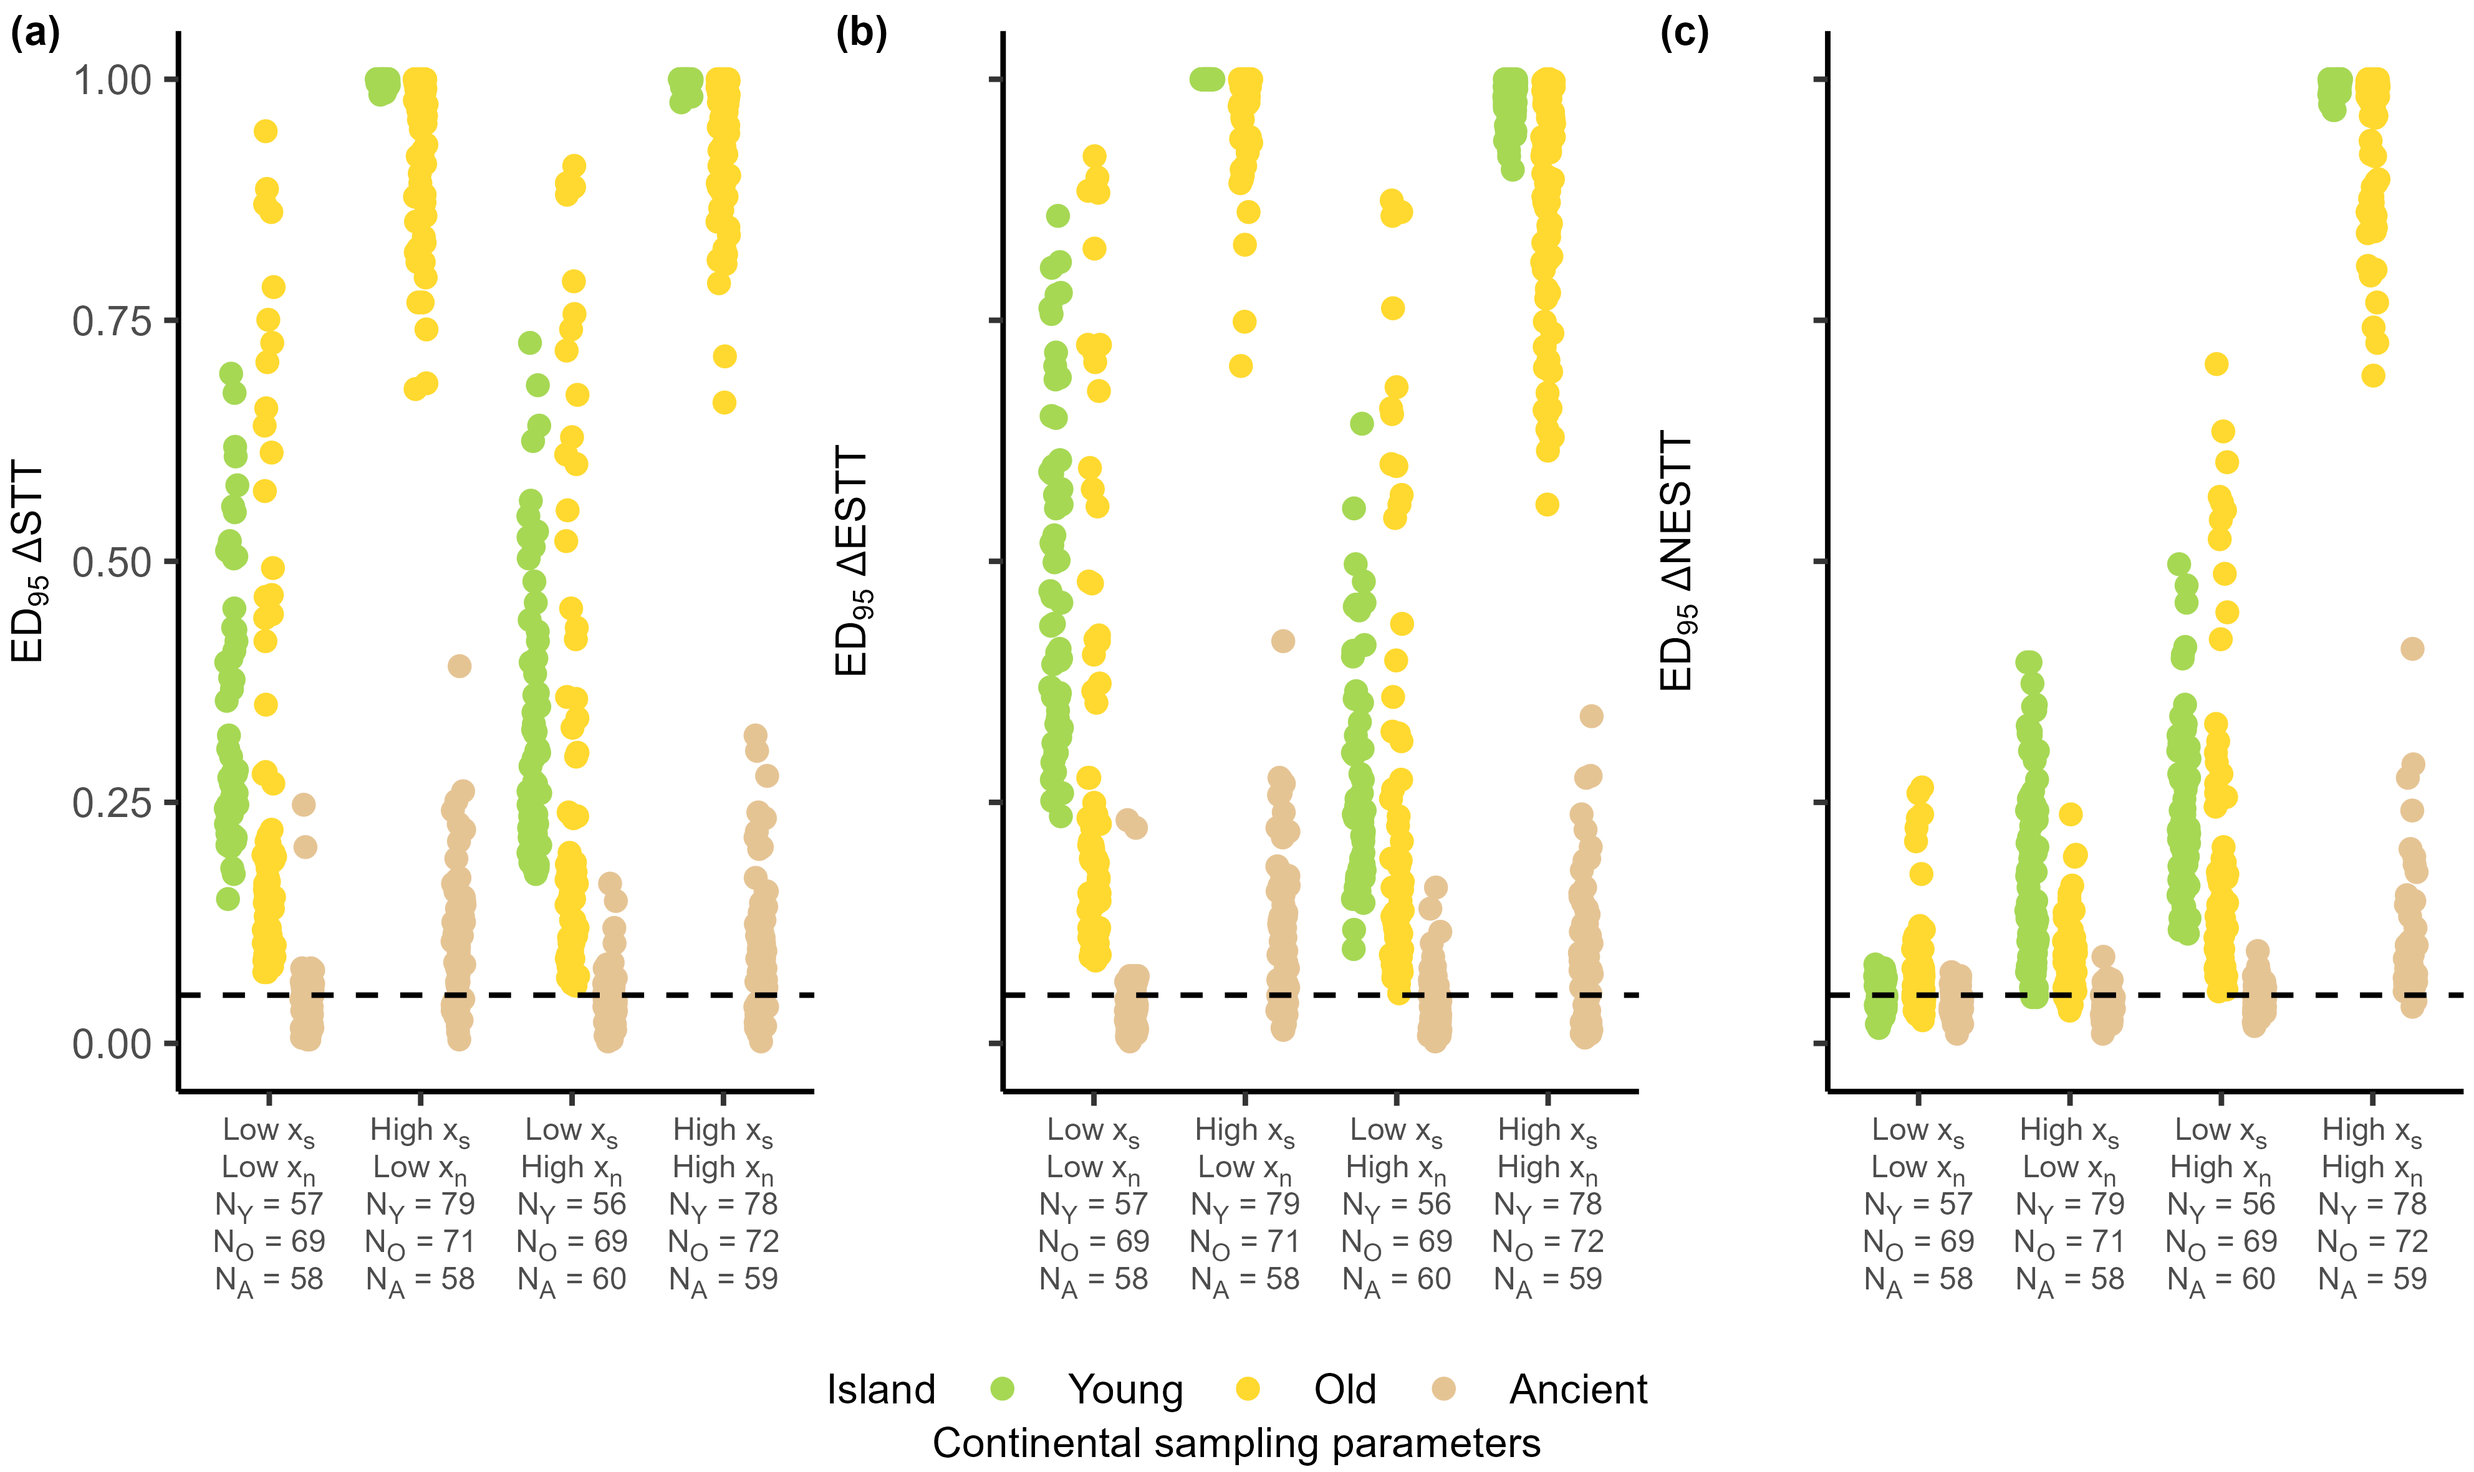
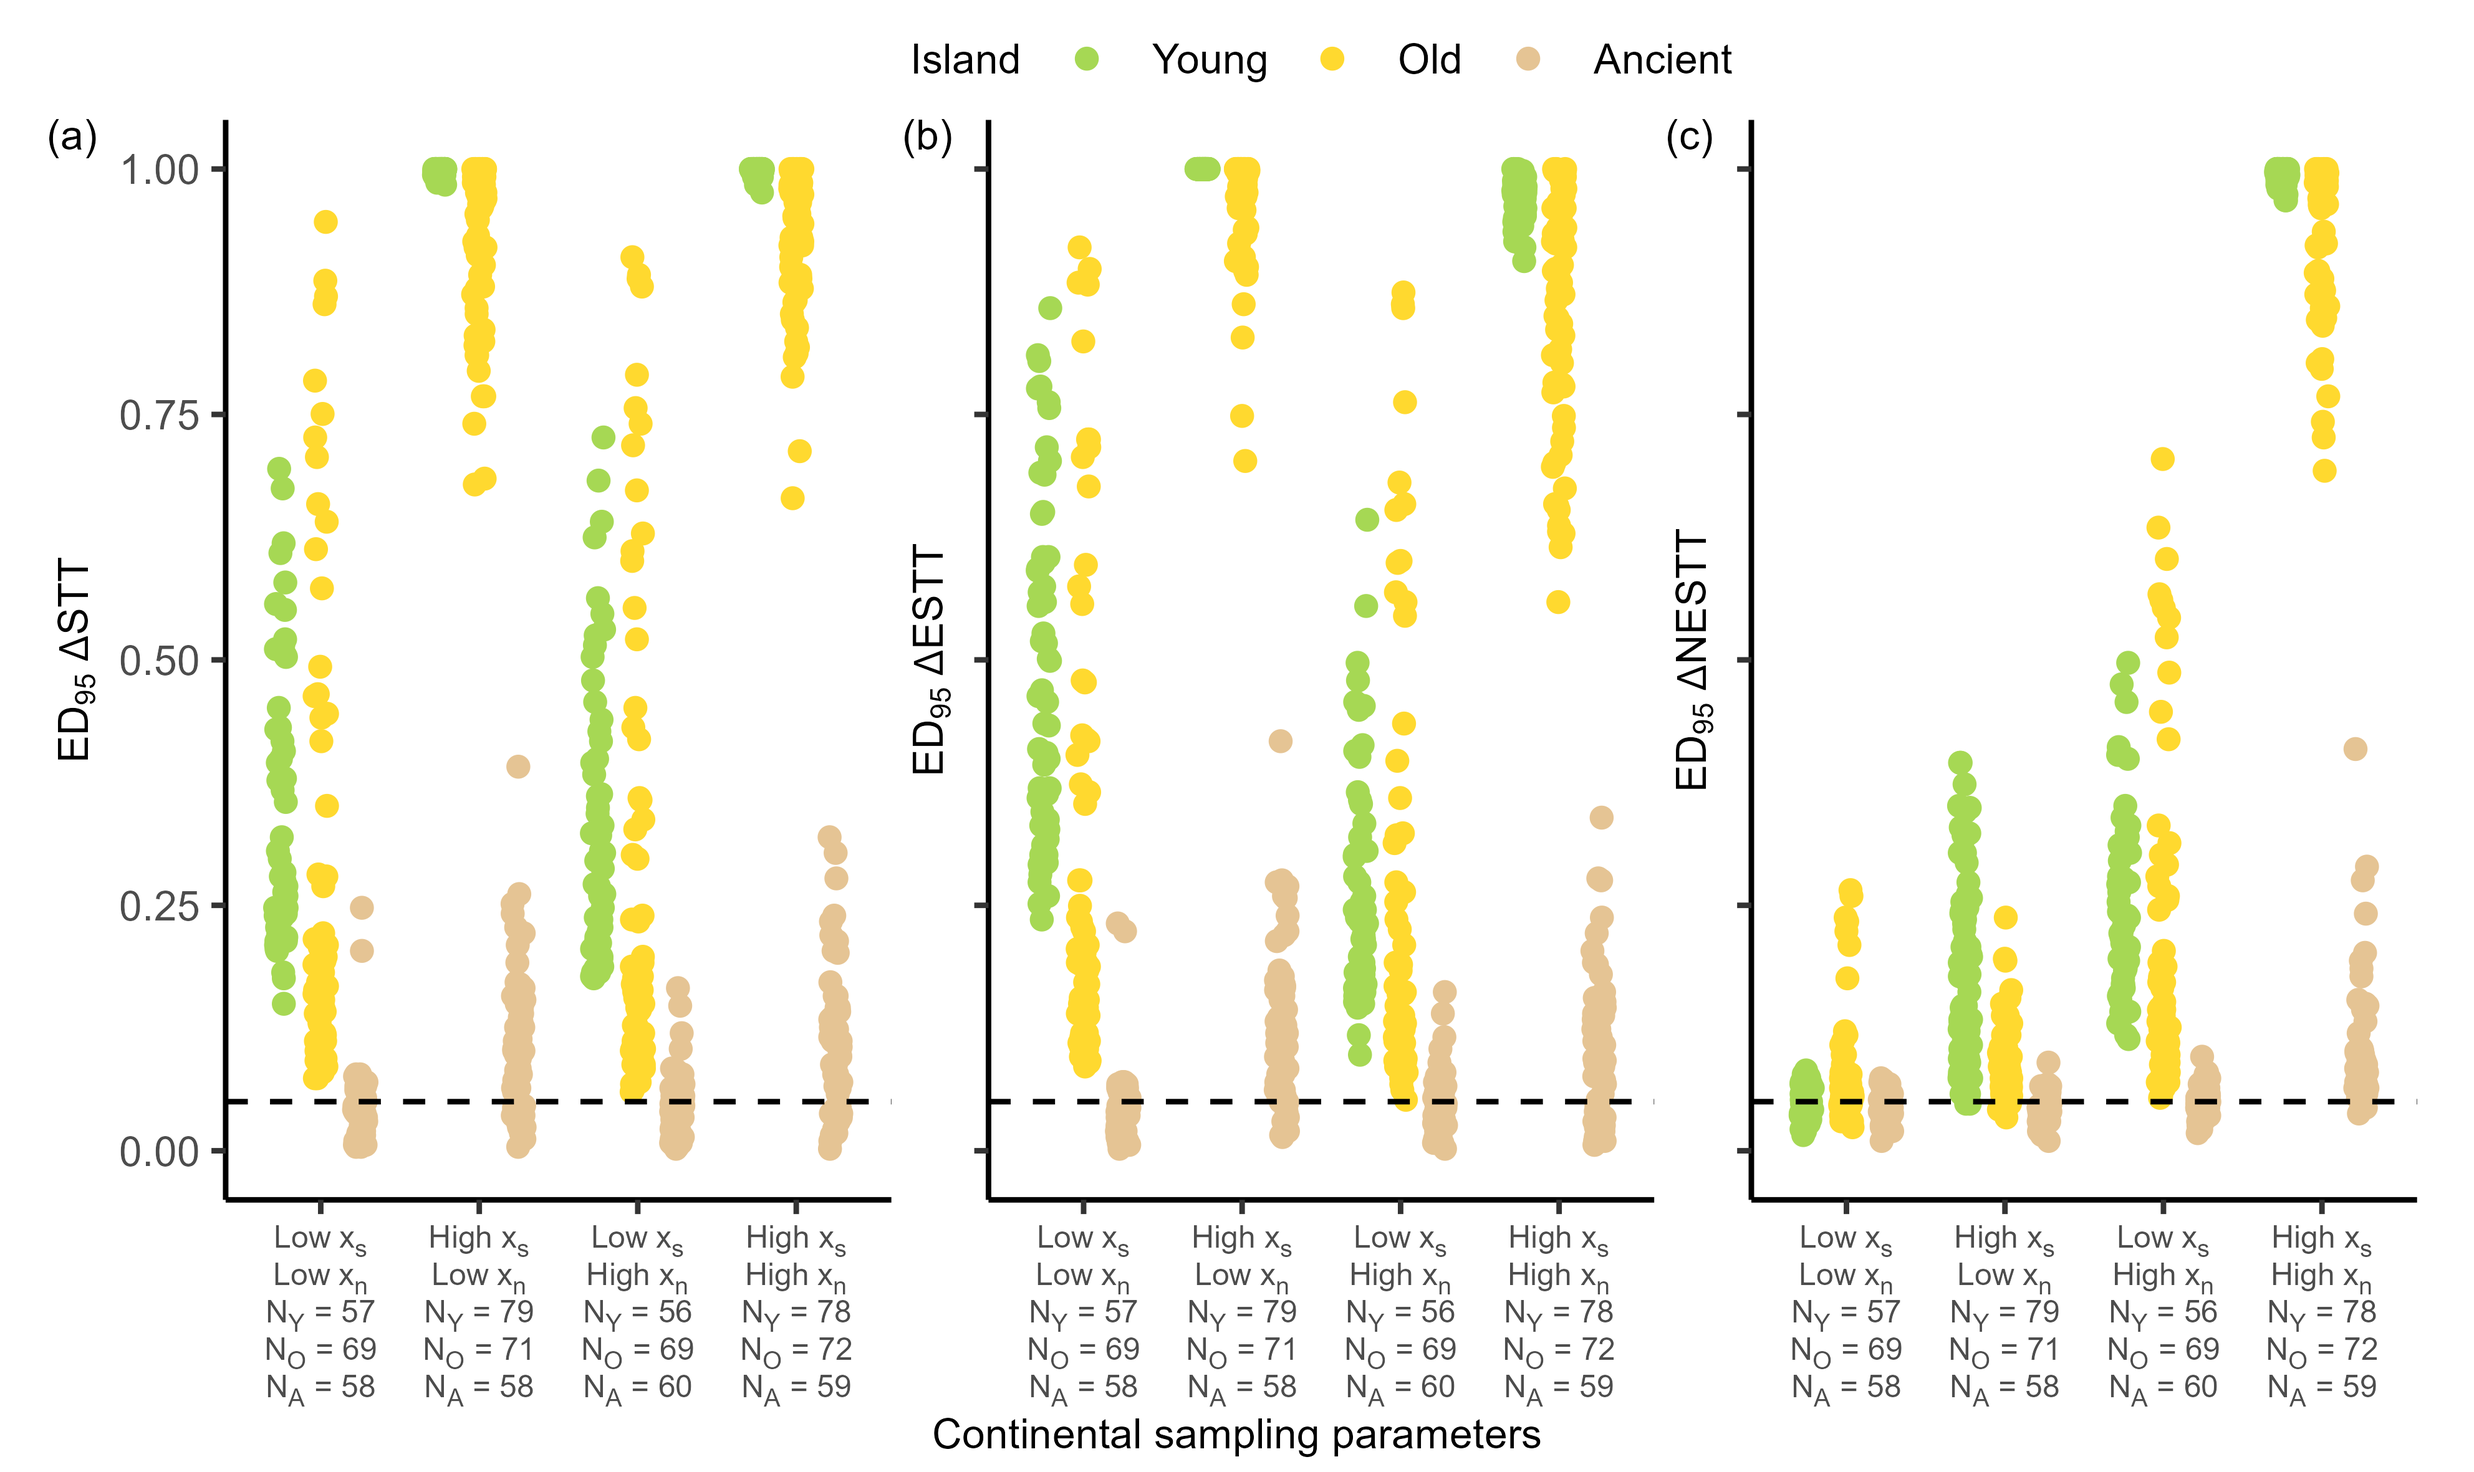
Update figures

diff --git a/supmat.tex b/supmat.tex
@@ -143,28 +143,28 @@ Therefore, the relationship between surface area of the cone and the base of the
 
 \begin{figure}
     \centering
-    \includegraphics{JBI-21-0508_FigS12.png}
+    \includegraphics[width=\textwidth]{JBI-21-0508_FigS12.png}
     \caption{Strip charts showing the distributions of the $ED_{95}$ statistic for the number of species at the present (N Spec) for each combination of island gradients for oceanic ontogeny sea-level. One point represents the $ED_{95}$ for a single parameter set with the specified island gradient on the \textit{x}-axis. All plots have a dashed line at 0.05 which is the null expectation of the $ED_{95}$. $ED_{95}$ statistic for number of species at the present for oceanic ontogeny sea-level. Sample size for Maui Nui (blue) on each strip is given in the \textit{x}-axis label by N\textsubscript{M}. Sample size for Kaua'i (pink) on each strip is given in the \textit{x}-axis label by N\textsubscript{K}. See Fig. \ref{tab:oceanic_ontogeny_sea_level_young}-\ref{tab:oceanic_ontogeny_sea_level_old} for parameter combinations.}
     \label{fig:Island_gradient_ontogeny_sea_level_num_spec}
 \end{figure}
 
 \begin{figure}
     \centering
-    \includegraphics{JBI-21-0508_FigS13.png}
+    \includegraphics[width=\textwidth]{JBI-21-0508_FigS13.png}
     \caption{Strip charts showing the distributions of the $ED_{95}$ statistic for each combination of continental sampling parameters ($x_s$ and $x_n$ controlling the sampling probability of a species being initially present on the island and the sampling probability of species present initially on the island being non-endemic). One point represents the $ED_{95}$ for a single parameter set with the specified sampling parameters on the \textit{x}-axis. All plots have a dashed line at 0.05 which is the null expectation of the $ED_{95}$. (a) $\Delta$STT $ED_{95}$ statistic, (b) $\Delta$ESTT $ED_{95}$ statistic, (c) $\Delta$NESTT $ED_{95}$ statistic for continental land-bridge. Sample size for young island (green) on each strip is given in the \textit{x}-axis label by N\textsubscript{Y}. Sample size for old island (yellow) on each strip is given in the \textit{x}-axis label by N\textsubscript{O}. See Table \ref{tab:continental_lb_young}-\ref{tab:continental_lb_old} for parameter combinations.}
     \label{fig:continental_land_bridge_sample_facet}
 \end{figure}
 
 \begin{figure}
     \centering
-    \includegraphics{JBI-21-0508_FigS14.png}
+    \includegraphics[width=\textwidth]{JBI-21-0508_FigS14.png}
     \caption{Strip charts showing the distributions of the $ED_{95}$ statistic for number of species (N Spec) (a) and colonists (N Col) (b) at the present for each combination of continental sampling parameters ($x_s$ and $x_n$ controlling the sampling probability of a species being initially present on the island and the sampling probability of species present initially on the island being non-endemic). One point represents the $ED_{95}$ for a single parameter set with the specified sampling parameters on the \textit{x}-axis. All plots have a dashed line at 0.05 which is the null expectation of the $ED_{95}$. (a) $\Delta$STT $ED_{95}$ statistic, (b) $\Delta$ESTT $ED_{95}$ statistic, (c) $\Delta$NESTT $ED_{95}$ statistic for continental land-bridge. Sample size for young island (green) on each strip is given in the \textit{x}-axis label by N\textsubscript{Y}. Sample size for old island (yellow) on each strip is given in the \textit{x}-axis label by N\textsubscript{O}. See Table \ref{tab:continental_lb_young}-\ref{tab:continental_lb_old} for parameter combinations.}
     \label{fig:continental_land_bridge_sample_spec_col_facet_}
 \end{figure}
 
 \begin{figure}
     \centering
-    \includegraphics{JBI-21-0508_FigS15.png}
+    \includegraphics[width=\textwidth]{JBI-21-0508_FigS15.png}
     \caption{Strip charts showing the distributions of the $ED_{95}$ statistic for number of species and colonists at the present for each combination of continental sampling parameters ($x_s$ and $x_n$ controlling the sampling probability of a species being initially present on the island and the sampling probability of species present initially on the island being non-endemic). One point represents the $ED_{95}$ for a single parameter set with the specified sampling parameters on the \textit{x}-axis. All plots have a dashed line at 0.05 which is the null expectation of the $ED_{95}$. Sample size for young island (green) on each strip is given in the \textit{x}-axis label by N\textsubscript{Y}. Sample size for old island (yellow) on each strip is given in the \textit{x}-axis label by N\textsubscript{O}. Sample size for the ancient island (beige) on each strip is given in the \textit{x}-axis label by N\textsubscript{A}. See Table \ref{tab:continental} for parameter combinations.}
     \label{fig:continental_spec_col_facet_}
 \end{figure}

diff --git a/main.tex b/main.tex
@@ -34,7 +34,7 @@ Groningen, Box 11103, 9700 CC Groningen, The Netherlands
 
 \noindent * These authors contributed equally to this work.
 
-\noindent \textsuperscript{+} These authors jointly contribute to senior authorship.
+\noindent \textsuperscript{+} These authors jointly contributed to senior authorship.
 
 \noindent Corresponding Author: Pedro Santos Neves, Groningen Institute for Evolutionary Life Sciences, Box 11103, 9700 CC Groningen, The Netherlands. Email: p.m.santos.neves@rug.nl.
 
@@ -140,6 +140,7 @@ We quantified the error using the $\Delta$nLTT statistic \citep{janzen_approxima
 \clearpage
 
 \begin{figure}
+    \centering
     \includegraphics{JBI-21-0508_Fig2.png}
     \caption{Schematic representation of the robustness pipeline. (1) Island phylogenetic data is produced by a geodynamic simulation. (2) Reconstructed phylogenetic data is produced by pruning (removing) all extinct lineages. (3) DAISIE maximum likelihood estimation (MLE) of parameters, which assumes no geodynamics, is applied to data from step 2. (4) A constant-area oceanic simulation (i.e. the original DAISIE method) is run with the parameters estimates from step 3 as generating parameters. (5) Phylogenies are pruned to reconstructed trees. (6) The DAISIE MLE is applied to data from step 5. (7) A constant-area oceanic simulation is run with parameter estimates from step 6 as generating parameters. The inference error made on data from a geodynamic simulation ($E$, step 3) is compared with the baseline error ($E_0$, step 6). The error $E$ is calculated by comparing the geodynamic simulations with the first set of constant-area oceanic simulations for five metrics (dashed line). The baseline error $E_0$ is obtained by comparing two oceanic simulations using the same five metrics (dashed line). The error made when inferring from geodynamic data but assuming the constant-area oceanic model in inference is the proportion of errors ($E$) that exceed the 95\textsuperscript{th} percentile of the baseline errors ($E_0$).}
     \label{fig:pipeline}
@@ -154,6 +155,7 @@ The robustness pipeline (Fig. \ref{fig:pipeline}) was run until 500 replicates w
 \clearpage
 
 \begin{figure}
+    \centering
     \includegraphics{JBI-21-0508_Fig3.png}
     \caption{Hypothetical examples of histograms of error ($E$) and baseline error ($E_0$) distributions for two parameter sets. The error is the bias made by the inference model from fitting geodynamic data, while the baseline error is the bias inherent to the model when the inference model matches the generating process. The dashed pink line corresponds to the 95\textsuperscript{th} percentile of the $E_0$ distribution. In (a) the $E$ and $E_0$ distributions are largely overlapping and a large proportion of the $E_0$ distribution falls to the left of the dashed pink line (low $ED_{95}$ value). By contrast, in (b), the majority of the error distribution falls to the right of the dashed pink line (high $ED_{95}$ value).}
     \label{fig:hist_spec_nltt}
